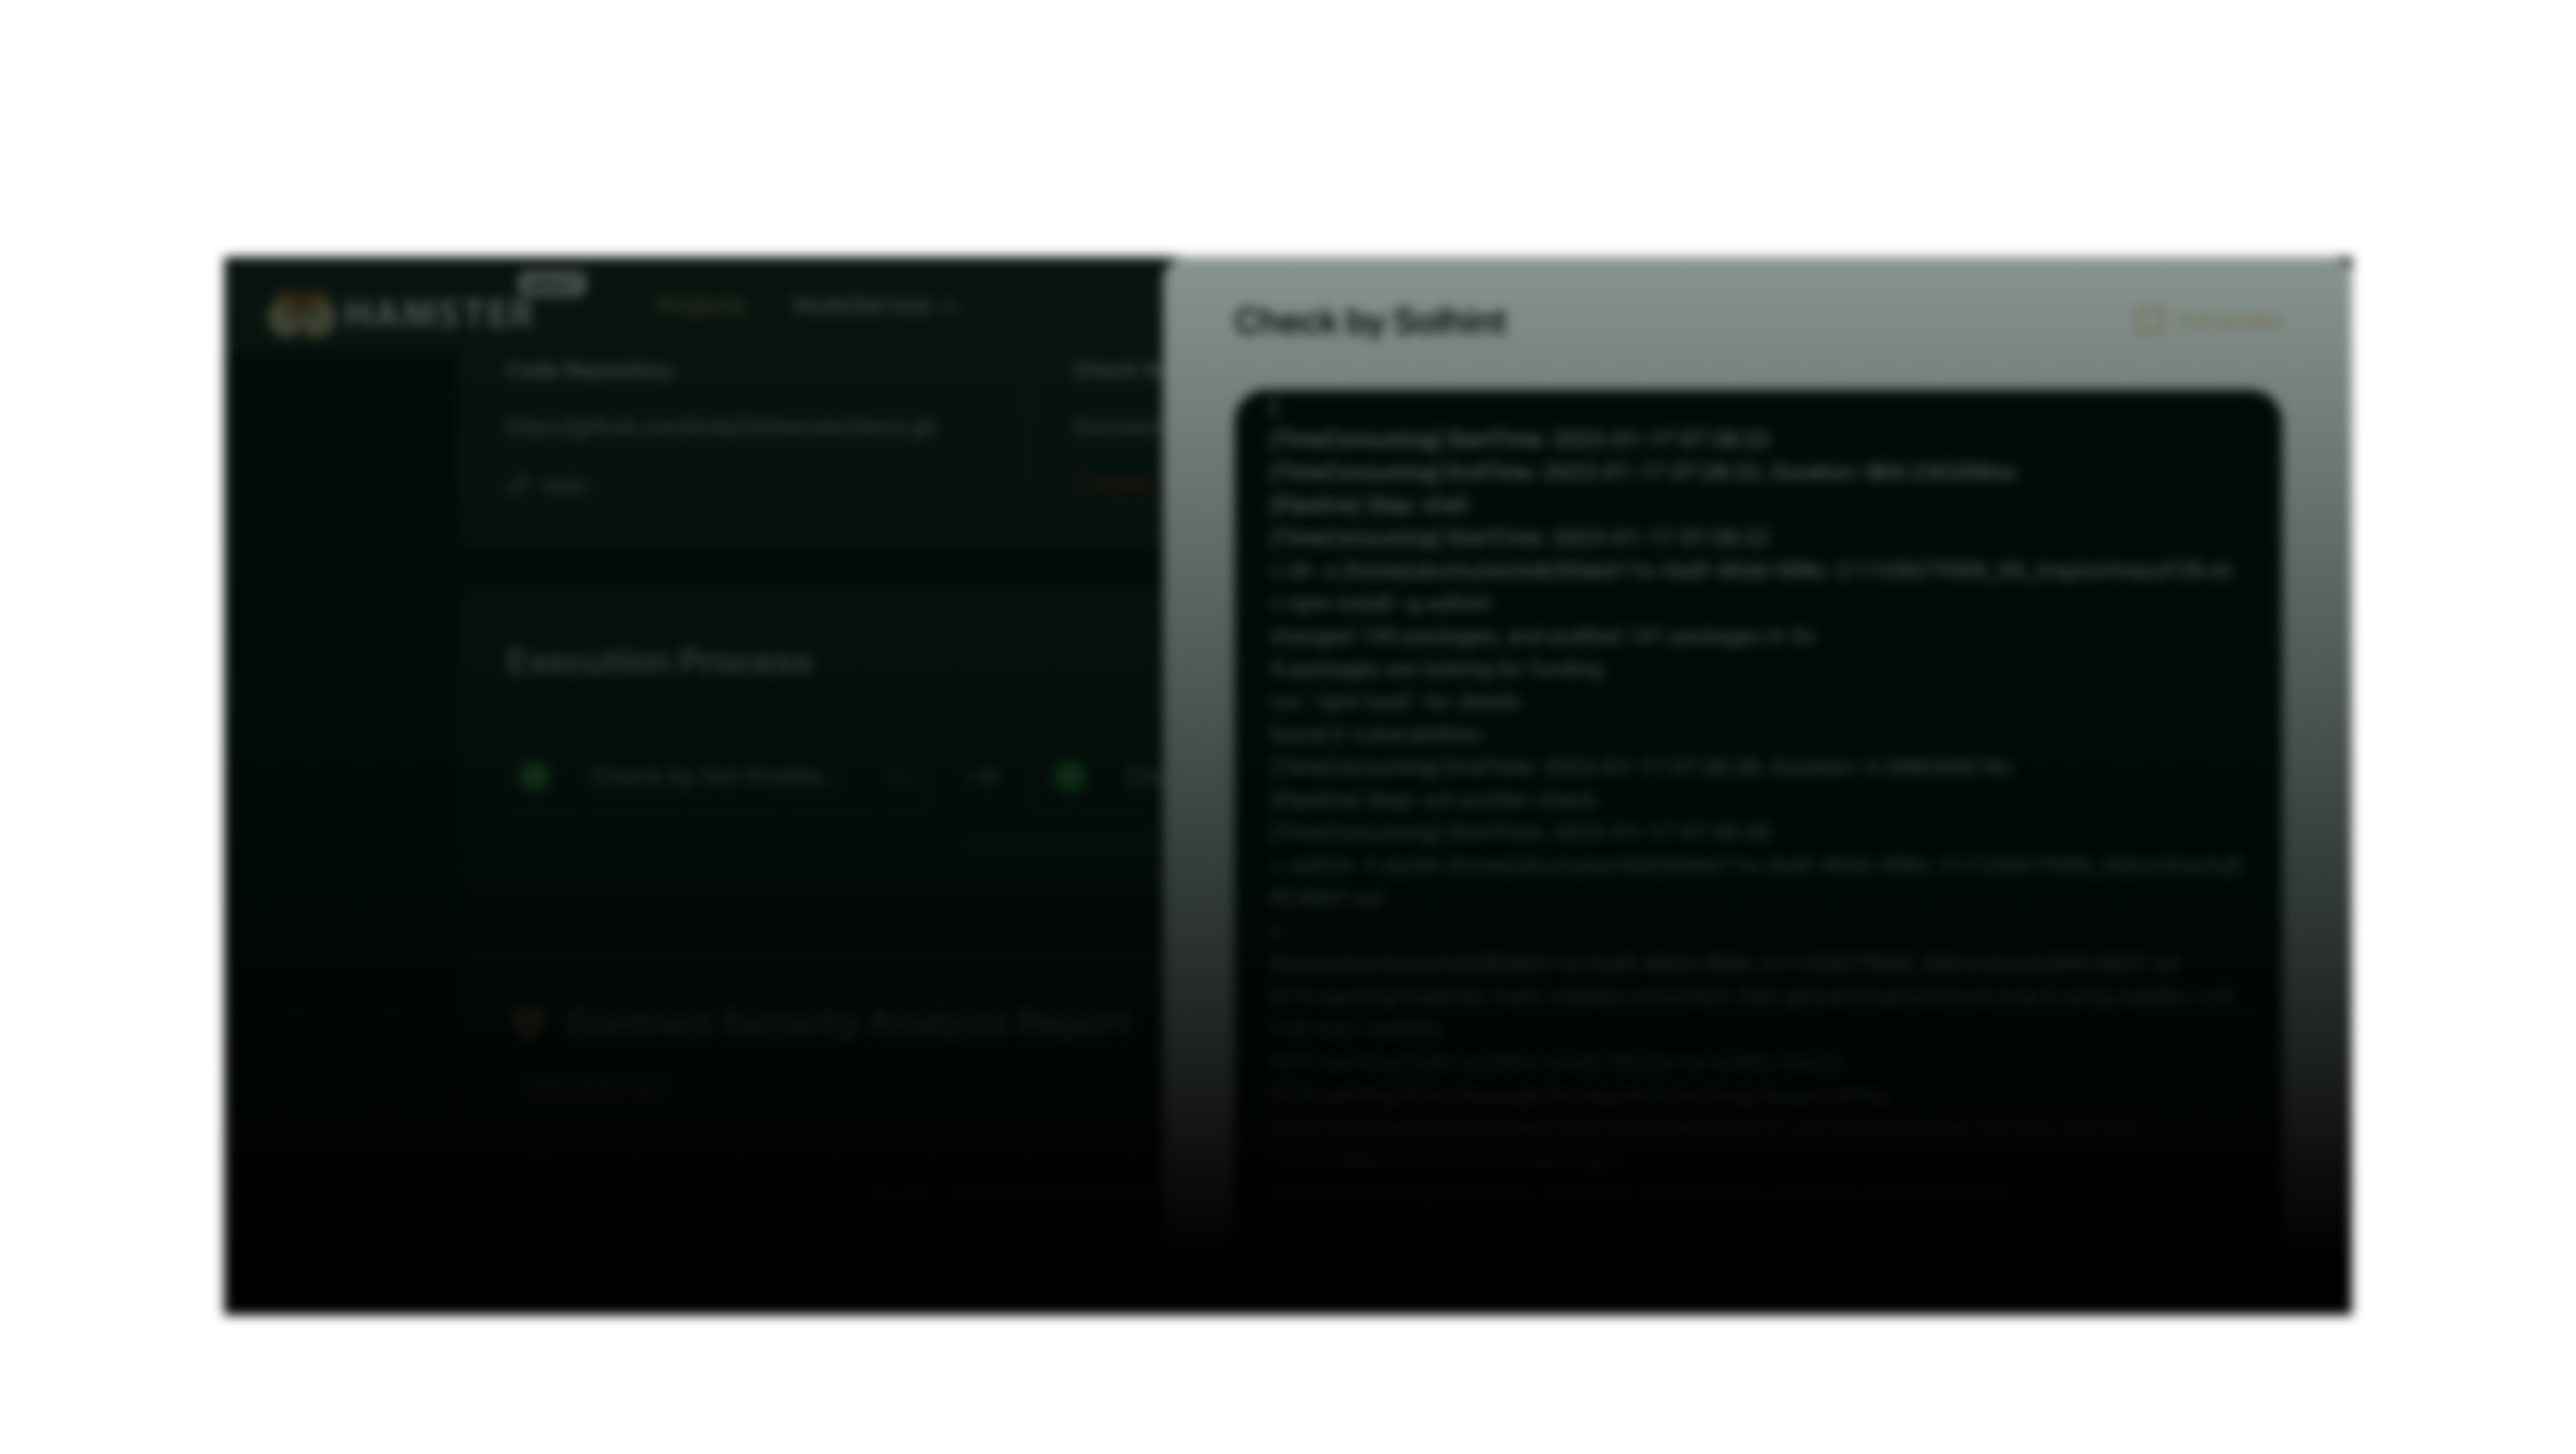
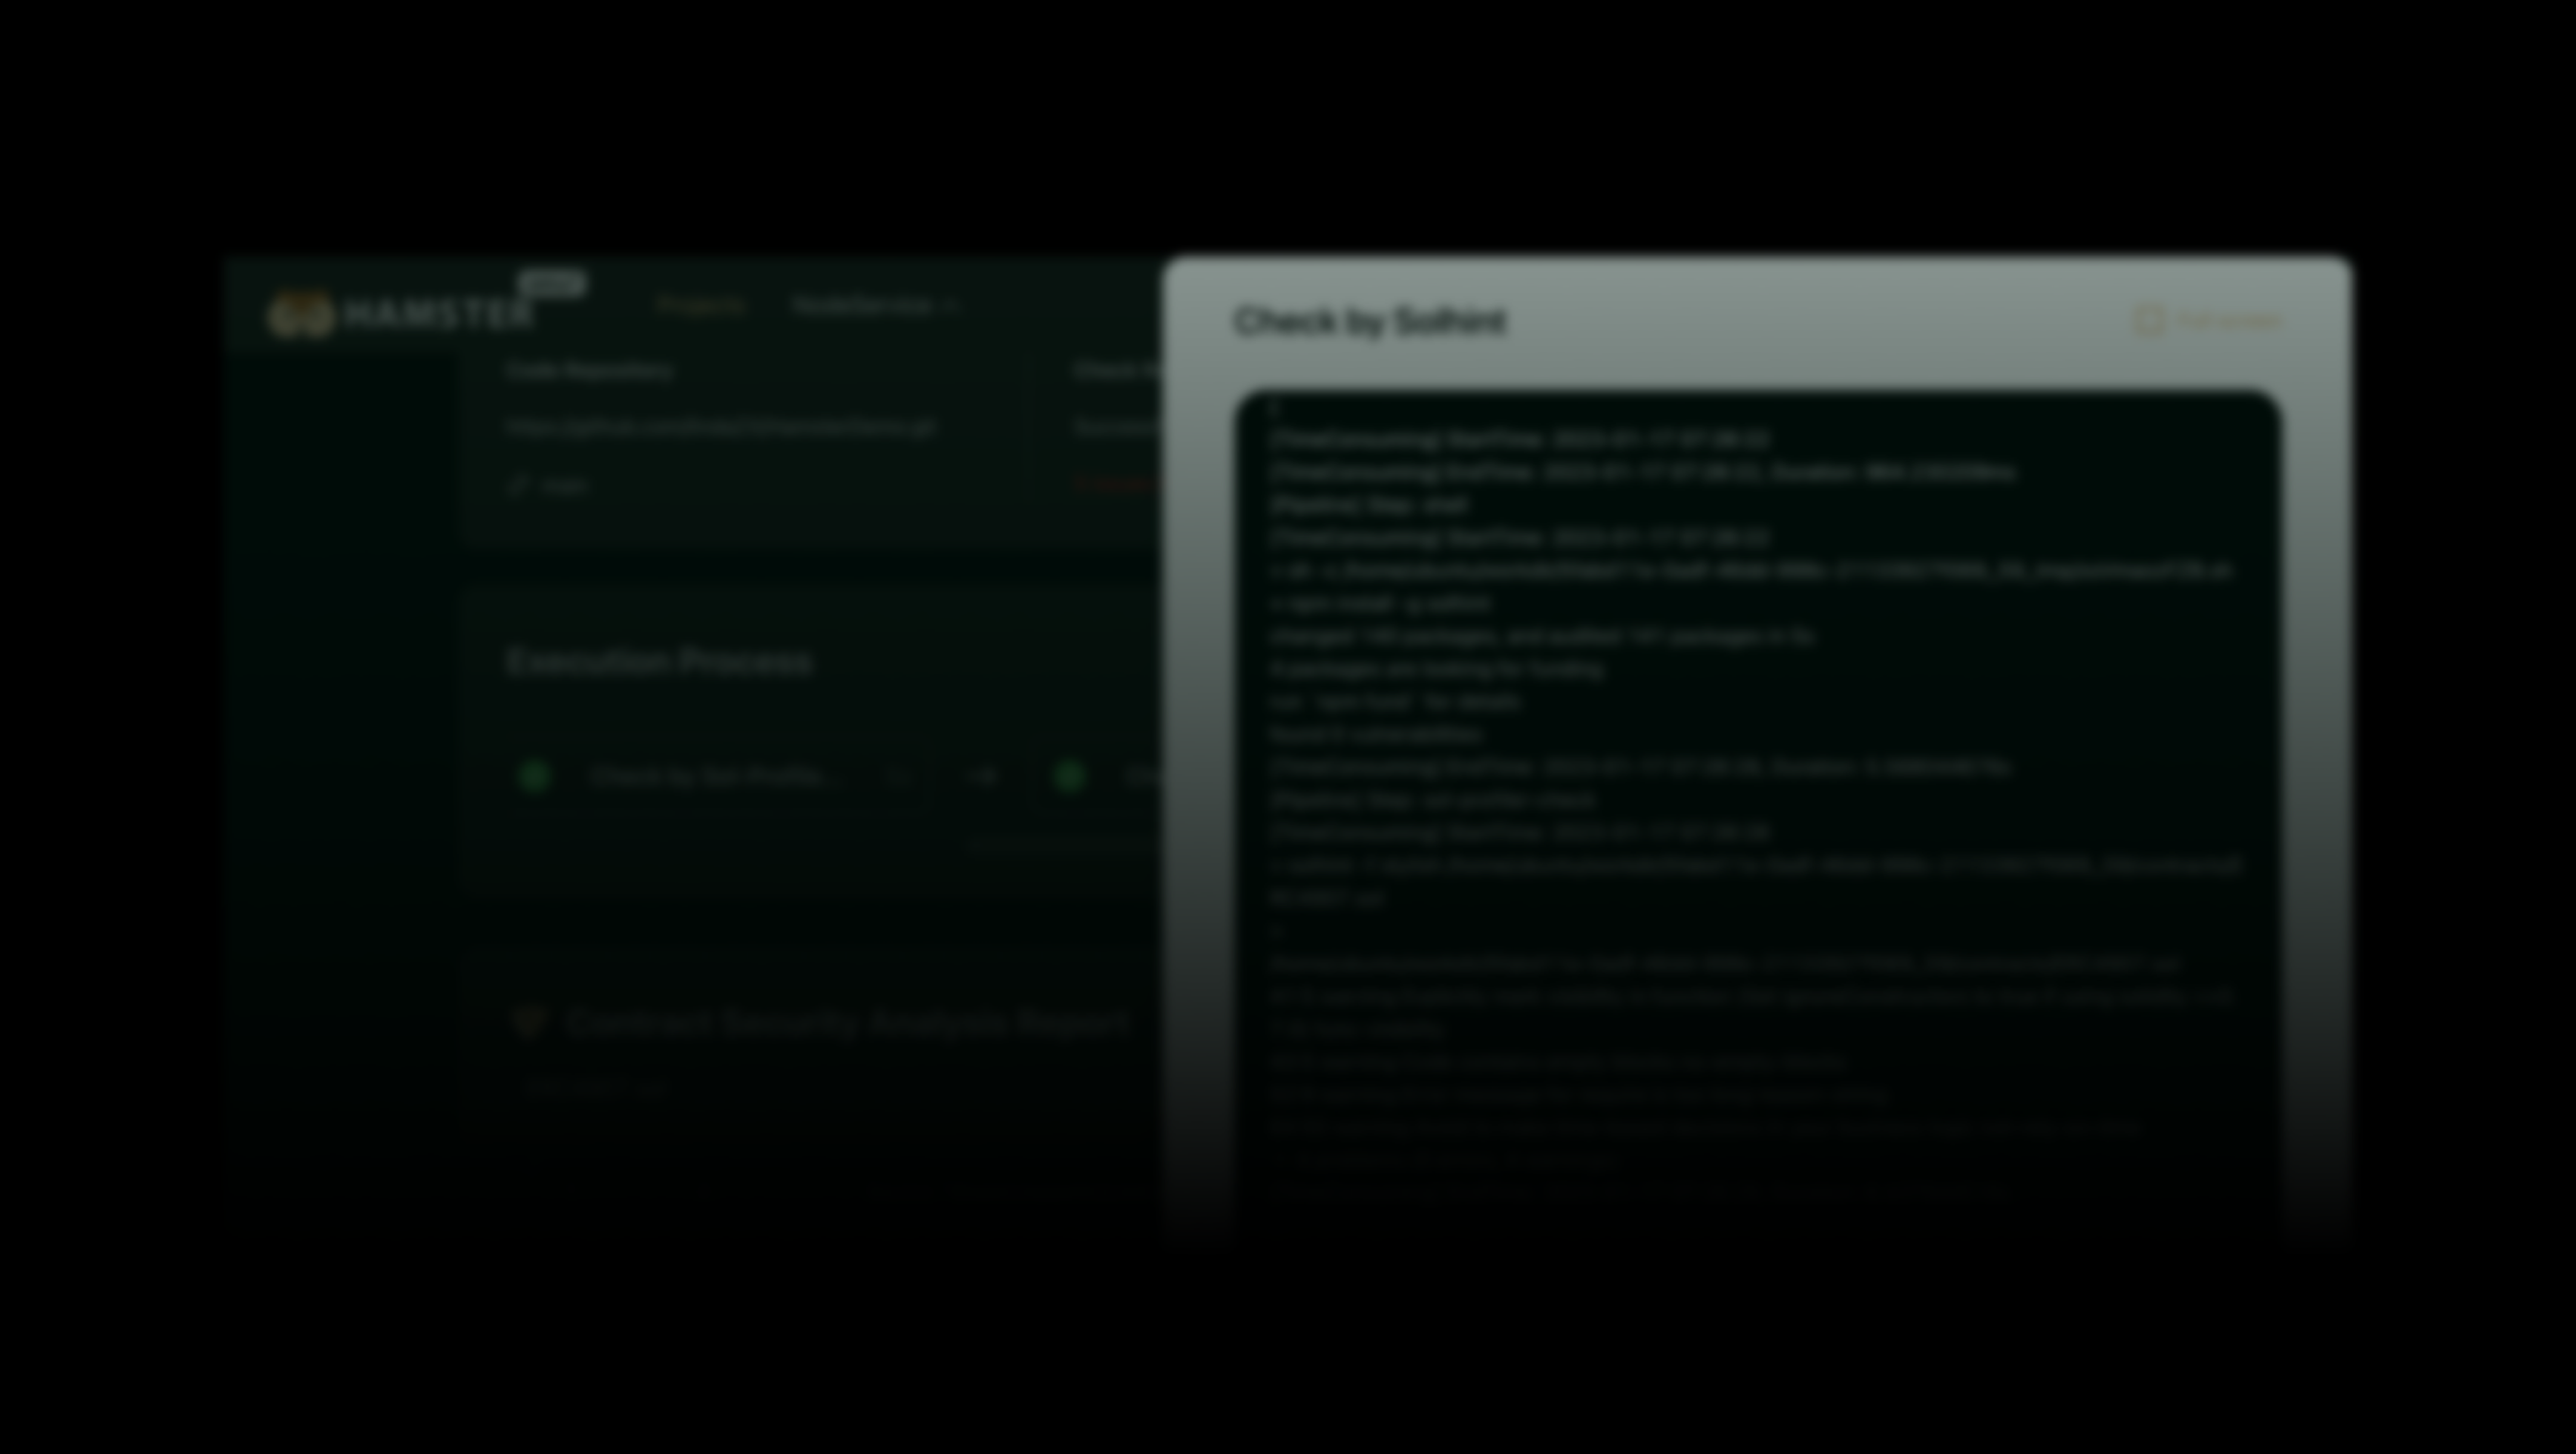
change top bg img

diff --git a/pages/abouts/index.vue b/pages/abouts/index.vue
@@ -264,3 +264,18 @@ onUnmounted(() => {
   @apply  h-[212px];
 }
 </style>
+
+<style lang="less">
+  // html.fp-enabled:not(.is-mobile) {
+  //   body {
+  //     background: url(~/assets/images/index-bg-top.png) left top no-repeat,
+  //                 url(~/assets/images/index-bg-body.png) center center no-repeat,
+  //                 #141212;
+  //   }
+  // }
+  html:not(.is-mobile) {
+    body {
+      background: url(~/assets/images/home-background.jpg) no-repeat #131313;
+    }
+  }
+</style>

diff --git a/layouts/-components/footer.vue b/layouts/-components/footer.vue
@@ -1,5 +1,5 @@
 <template>
-  <div class="container mx-auto my-20">
+  <div class="container mx-auto my-20 px-5 md:px-0">
     <div class="grid grid-cols-1 lg:grid-cols-3 gap-[54px]">
       <div>
         <img class="h-[20px] md:h-[32px]" src="~/assets/images/header.png">
